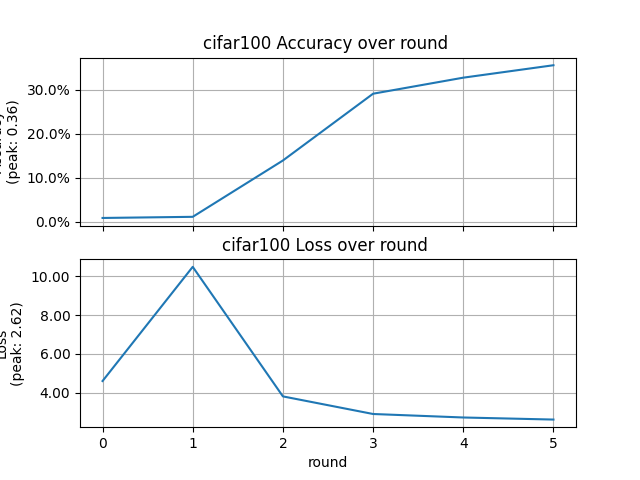
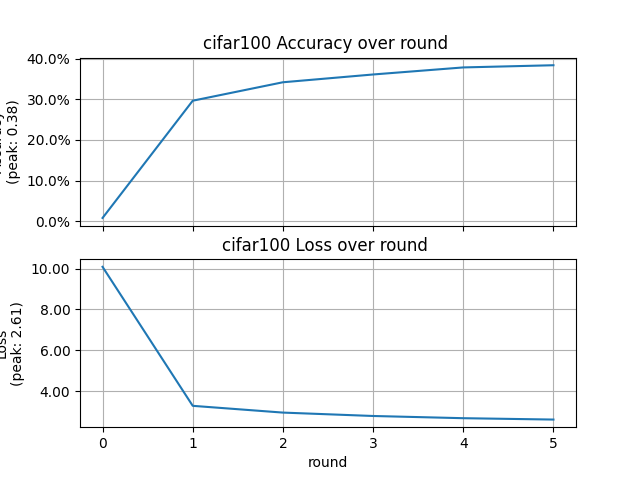
resnet test

diff --git a/src/ModelConf.py b/src/ModelConf.py
@@ -4,6 +4,9 @@ from tensorflow.keras.layers import MaxPooling2D
 from tensorflow.keras.layers import MaxPool2D
 from tensorflow.keras.layers import BatchNormalization
 from tensorflow.keras.utils import to_categorical
+from tensorflow.keras.applications.resnet50 import ResNet50, preprocess_input
+from tensorflow.keras.layers import GlobalAveragePooling2D, Input, UpSampling2D
+from tensorflow.keras import Model
 import numpy as np
 import pickle
 import os
@@ -43,14 +46,17 @@ class ModelConf:
 
     def set_dataset(self):
         # normalizing e label encodig
-        self.x_train = self.x_train / 255
-        self.x_test = self.x_test / 255
-        self.y_train = to_categorical(self.y_train, self.classes_number)
-        self.y_test = to_categorical(self.y_test, self.classes_number)
-        
         if self.dataset_name == 'mnist':
+            self.x_train = self.x_train / 255
+            self.x_test = self.x_test / 255
             self.x_train = self.x_train.reshape(self.x_train.shape[0],self.x_train.shape[1], self.x_train.shape[2],1)
             self.x_test = self.x_test.reshape(self.x_test.shape[0],self.x_test.shape[1], self.x_test.shape[2],1)
+        else:
+            self.x_train = preprocess_input(self.x_train)
+            self.x_test = preprocess_input(self.x_test)
+
+        self.y_train = to_categorical(self.y_train, self.classes_number)
+        self.y_test = to_categorical(self.y_test, self.classes_number)
 
     def generate_dataset_client_partition(self):
        
@@ -86,39 +92,94 @@ class ModelConf:
 
     def get_model(self):
         # build the model
-        model = Sequential()
-        
-        #initial arch
         if(self.dataset_name == 'mnist'):
-            model.add(Conv2D(64, self.kernel_size, input_shape=self.input_shape, activation="relu"))
-            model.add(MaxPooling2D(pool_size=(2, 2)))
-            model.add(Dropout(0.5))
-            model.add(Conv2D(64, self.kernel_size, input_shape=self.input_shape, activation="relu"))
-            model.add(MaxPooling2D(pool_size=(2, 2)))
-            model.add(Dropout(0.25))
-            model.add(Flatten())
-            model.add(Dense(256, activation="relu"))
-            model.add(Dense(self.classes_number, activation="softmax"))
+            model = self.get_mnist_arch()
         else:
-            model.add(Conv2D(filters=32, kernel_size=self.kernel_size, input_shape=self.input_shape, activation='relu', padding='same'))
-            model.add(BatchNormalization())
-            model.add(MaxPool2D(pool_size=(2, 2)))
-            model.add(Dropout(0.25))
+            model = self.get_cifar_arch()
+            
+        model.summary()
+        return model
+    
+    def get_cifar_arch(self):
+        # model = Sequential()
+        # model.add(Conv2D(filters=32, kernel_size=self.kernel_size, input_shape=self.input_shape, activation='relu', padding='same'))
+        # model.add(BatchNormalization())
+        # model.add(MaxPool2D(pool_size=(2, 2)))
+        # model.add(Dropout(0.25))
 
-            model.add(Conv2D(filters=64, kernel_size=self.kernel_size, input_shape=self.input_shape, activation='relu', padding='same'))
-            model.add(BatchNormalization())
-            model.add(MaxPool2D(pool_size=(2, 2)))
-            model.add(Dropout(0.25))
+        # model.add(Conv2D(filters=64, kernel_size=self.kernel_size, input_shape=self.input_shape, activation='relu', padding='same'))
+        # model.add(BatchNormalization())
+        # model.add(MaxPool2D(pool_size=(2, 2)))
+        # model.add(Dropout(0.25))
 
-            model.add(Conv2D(filters=128, kernel_size=self.kernel_size, input_shape=self.input_shape, activation='relu', padding='same'))
-            model.add(BatchNormalization())
-            model.add(MaxPool2D(pool_size=(2, 2)))
-            model.add(Dropout(0.25))
+        # model.add(Conv2D(filters=128, kernel_size=self.kernel_size, input_shape=self.input_shape, activation='relu', padding='same'))
+        # model.add(BatchNormalization())
+        # model.add(MaxPool2D(pool_size=(2, 2)))
+        # model.add(Dropout(0.25))
 
-            model.add(Flatten())
-            model.add(Dense(128, activation='relu'))
-            model.add(Dropout(0.25))
-            model.add(Dense(self.classes_number, activation='softmax'))
+        # model.add(Flatten())
+        # model.add(Dense(128, activation='relu'))
+        # model.add(Dropout(0.25))
+        # model.add(Dense(self.classes_number, activation='softmax'))
+        model = self.define_compile_model()
+        return model
         
+    # Feature Extraction is performed by ResNet50 pretrained on imagenet weights. 
+    # Input size is 224 x 224.
+    def feature_extractor(self,inputs):
+
+        feature_extractor = ResNet50(input_shape=(224, 224, 3),
+                                                    include_top=False,
+                                                    weights='imagenet')(inputs)
+        return feature_extractor
+
+
+    # Defines final dense layers and subsequent softmax layer for classification.
+    def classifier(self,inputs):
+        x = GlobalAveragePooling2D()(inputs)
+        x = Flatten()(x)
+        x = Dense(1024, activation="relu")(x)
+        x = Dense(512, activation="relu")(x)
+        x = Dense(self.classes_number, activation="softmax", name="classification")(x)
+        return x
+
+    # Since input image size is (32 x 32), first upsample the image by factor of (7x7) to transform it to (224 x 224)
+    # Connect the feature extraction and "classifier" layers to build the model.
+    def final_model(self,inputs):
+
+        resize = UpSampling2D(size=(7,7))(inputs)
+
+        resnet_feature_extractor = self.feature_extractor(resize)
+        classification_output = self.classifier(resnet_feature_extractor)
+
+        return classification_output
+
+    # Define the model and compile it. 
+    # Use Stochastic Gradient Descent as the optimizer.
+    # Use Sparse Categorical CrossEntropy as the loss function.
+    def define_compile_model(self):
+        inputs = Input(shape=(32,32,3))
+        
+        classification_output = self.final_model(inputs) 
+        model = Model(inputs=inputs, outputs = classification_output)
+        
+        model.compile(optimizer='SGD', 
+                        loss='categorical_crossentropy',
+                        metrics = ['accuracy'])
+        
+        return model
+    
+    
+    def get_mnist_arch(self):
+        model = Sequential()
+        model.add(Conv2D(64, self.kernel_size, input_shape=self.input_shape, activation="relu"))
+        model.add(MaxPooling2D(pool_size=(2, 2)))
+        model.add(Dropout(0.5))
+        model.add(Conv2D(64, self.kernel_size, input_shape=self.input_shape, activation="relu"))
+        model.add(MaxPooling2D(pool_size=(2, 2)))
+        model.add(Dropout(0.25))
+        model.add(Flatten())
+        model.add(Dense(256, activation="relu"))
+        model.add(Dense(self.classes_number, activation="softmax"))
         model.compile(loss="categorical_crossentropy", optimizer="adam", metrics=["accuracy"])
         return model

diff --git a/src/main.py b/src/main.py
@@ -1,3 +1,4 @@
+import sys
 from tensorflow.keras.datasets import mnist
 from tensorflow.keras.datasets import cifar10
 from tensorflow.keras.datasets import cifar100
@@ -16,7 +17,6 @@ DEFAULT_FORMATTER = logging.Formatter(
 )
 fl.common.logger.configure(identifier="executionLog", filename="log.txt")
 enable_tf_gpu_growth()
-
 
 #####################################
 #
@@ -38,7 +38,7 @@ def start_mnist(poisoning=False,blockchain=False):
 # cifar10
 def start_cifa10(poisoning=False,blockchain=False):
     gv.printLog(f"starting cifar10 dataset {'poisoned' if poisoning else ''}")
-    cifar10_model_conf = mf.ModelConf('cifar10', cifar10, 10, (5, 5), (32, 32, 3), poisoning,blockchain)
+    cifar10_model_conf = mf.ModelConf('cifar10', cifar10, 10, (3, 3), (32, 32, 3), poisoning,blockchain)
     server_cifar10 = Server.Server(cifar10_model_conf)
     server_cifar10.start_simulation()
     del server_cifar10
@@ -49,7 +49,7 @@ def start_cifa10(poisoning=False,blockchain=False):
 # cifar100
 def start_cifar100(poisoning=False,blockchain=False):
     gv.printLog(f"starting cifar100 dataset {'poisoned' if poisoning else ''}")
-    cifar100_model_conf = mf.ModelConf('cifar100', cifar100, 100, (5, 5), (32, 32, 3), poisoning,blockchain)
+    cifar100_model_conf = mf.ModelConf('cifar100', cifar100, 100, (3, 3), (32, 32, 3), poisoning,blockchain)
     server_cifar100 = Server.Server(cifar100_model_conf)
     server_cifar100.start_simulation()
     del server_cifar100
@@ -57,7 +57,7 @@ def start_cifar100(poisoning=False,blockchain=False):
     gv.printLog(f"finish cifar100 {'poisoned' if poisoning else ''}")     
 
 
-def clear_ram():
+def clear_ram(): 
     time.sleep(1)
     gc.collect()
     time.sleep(1)

diff --git a/src/Server.py b/src/Server.py
@@ -20,7 +20,8 @@ class Server:
             min_evaluate_clients=gv.CLIENTS_NUM,
             min_available_clients=gv.CLIENTS_NUM,
             evaluate_fn=self.get_eval_fn(),
-            evaluate_metrics_aggregation_fn=Server.weighted_average
+            evaluate_metrics_aggregation_fn=Server.weighted_average,
+            # initial_parameters=fl.common.ndarrays_to_parameters(self.model_conf.resnet_model.get_weights())
         )
         self.accuracy_data = []
         self.loss_data = []
@@ -28,7 +29,7 @@ class Server:
         self.plotter = Plotter.Plotter(self.model_conf.dataset_name, model_conf.poisoning,model_conf.blockchain)
 
     def start_simulation(self):
-        client_resources = {"num_cpus": 4, "num_gpus": 1}
+        client_resources = {"num_cpus": 2, "num_gpus": 0.5}
         fl.simulation.start_simulation(
             client_fn=get_client_fn(self.model_conf),
             num_clients=gv.CLIENTS_NUM,

diff --git a/src/FlowerClient.py b/src/FlowerClient.py
@@ -4,6 +4,8 @@ import logging
 from tensorflow.keras.preprocessing.image import ImageDataGenerator
 from tensorflow.keras.callbacks import EarlyStopping
 import random
+from keras.applications.resnet50 import preprocess_input
+
 
 import ModelConf
 import globalVariable as gv
@@ -19,8 +21,8 @@ class FlowerClient(fl.client.NumPyClient):
         self.model = self.model_conf.get_model()
         self.x_train, self.y_train = client_partition_training_data
         
-        self.epochs = 25 if self.model_conf.dataset_name != 'mnist' else 5
-        self.batch_size = 250 if self.model_conf.dataset_name != 'mnist' else 50
+        self.epochs = 10 if self.model_conf.dataset_name != 'mnist' else 5
+        self.batch_size = 64 
         self.steps_for_epoch = len(self.x_train) // self.batch_size
         self.verbose = 0
         

diff --git a/src/globalVariable.py b/src/globalVariable.py
@@ -3,10 +3,8 @@ import logging
 
 
 CLIENTS_NUM = 10
-ROUNDS_NUM = 5
+ROUNDS_NUM = 4
 POISONERS_CLIENTS_CID =  np.random.randint(0, CLIENTS_NUM, round((CLIENTS_NUM * 30) / 100))
-POISONERS_CLIENTS = 2
-partitions_index_list = np.arange(0,CLIENTS_NUM)
 
     
 def printLog(msg):
